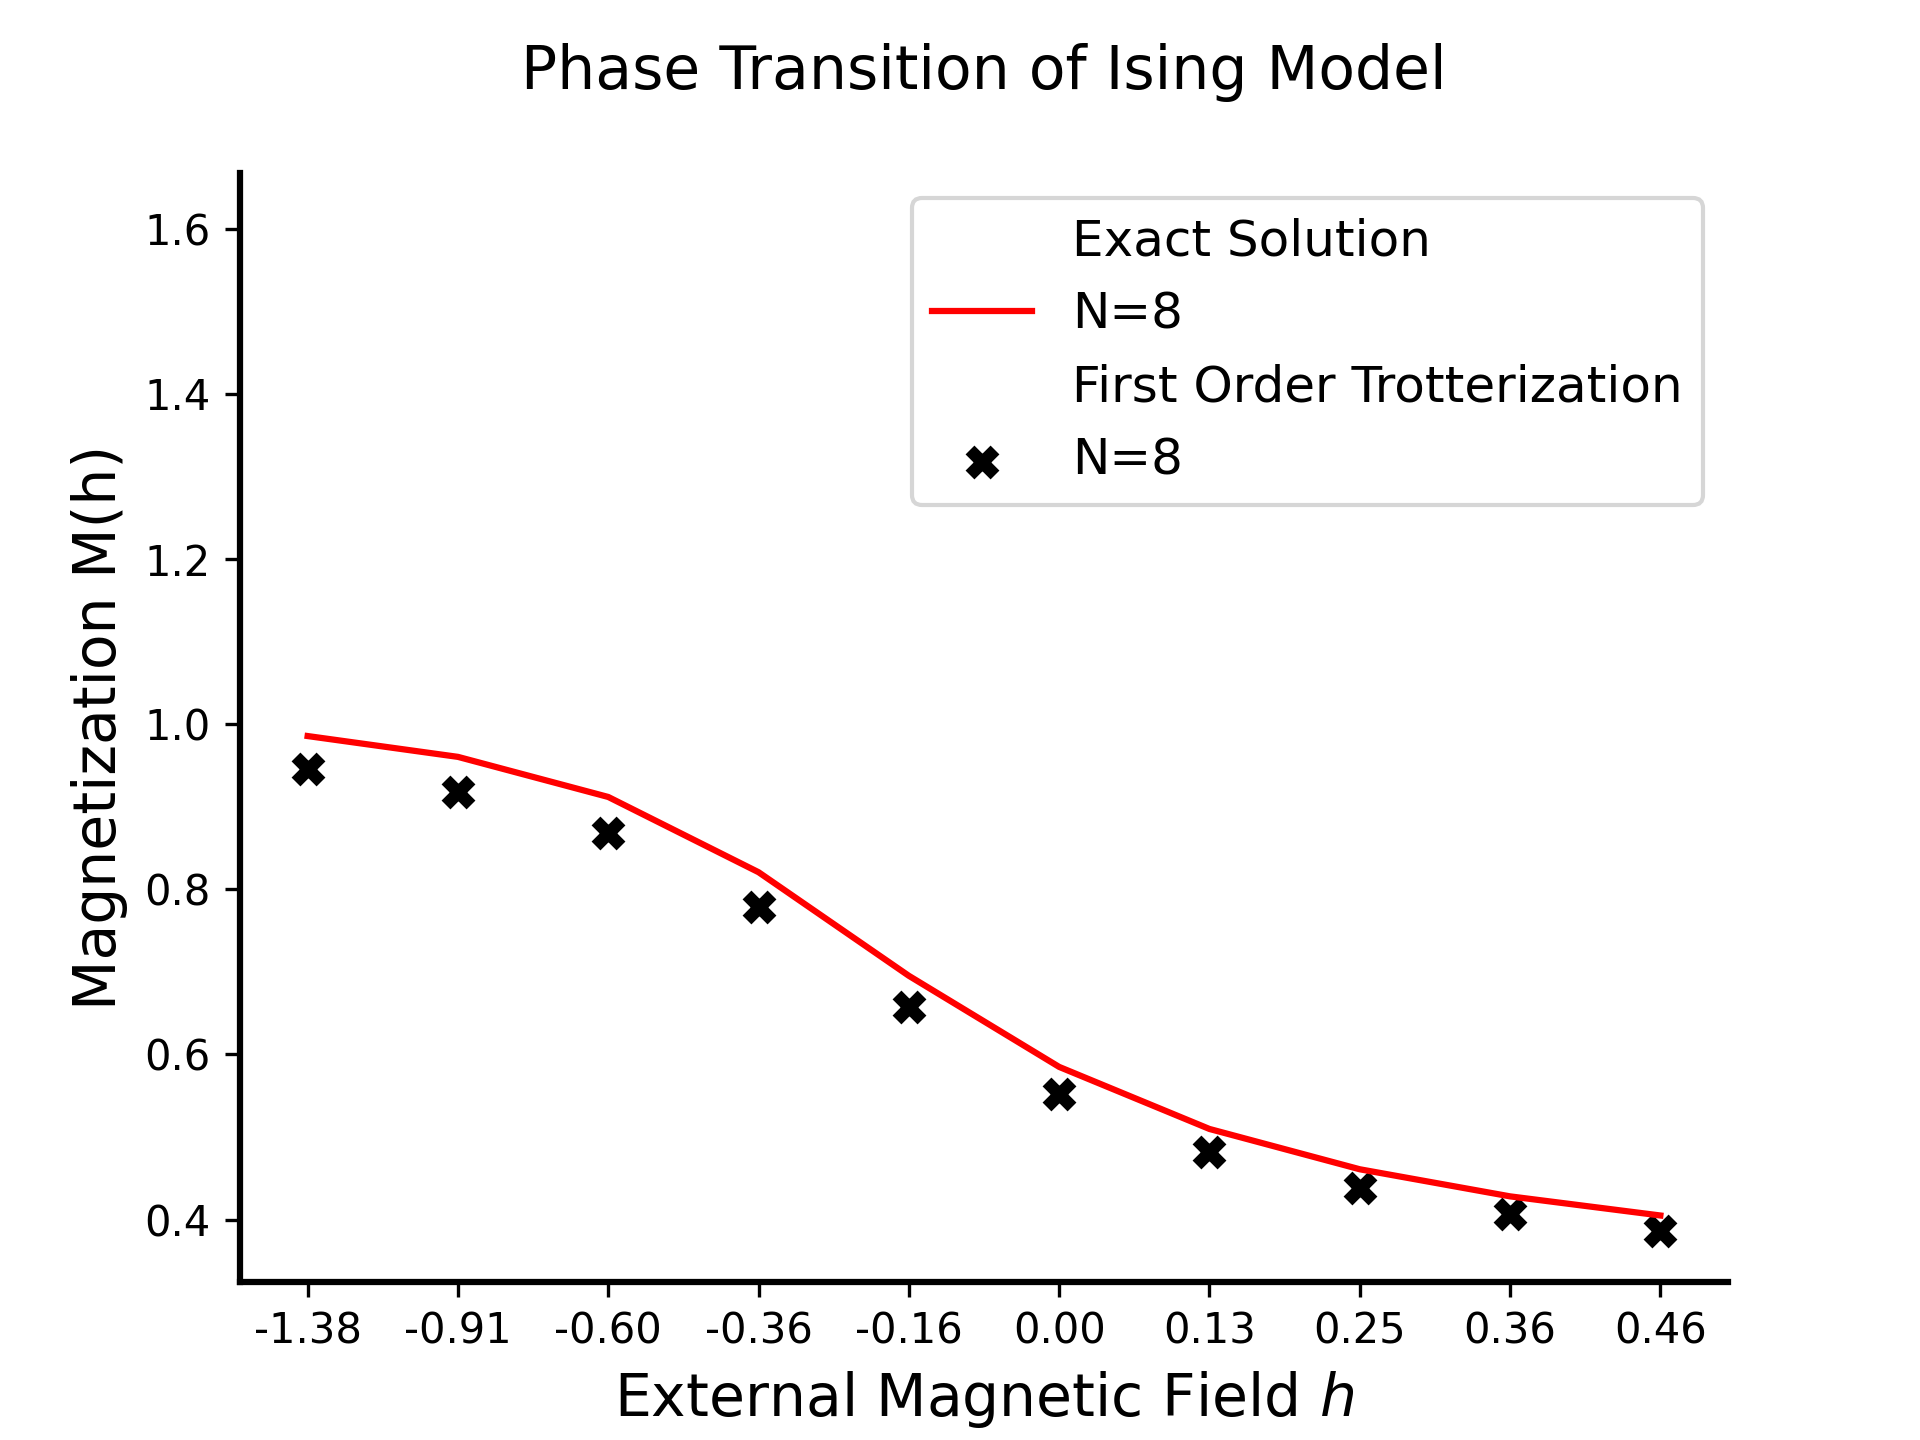
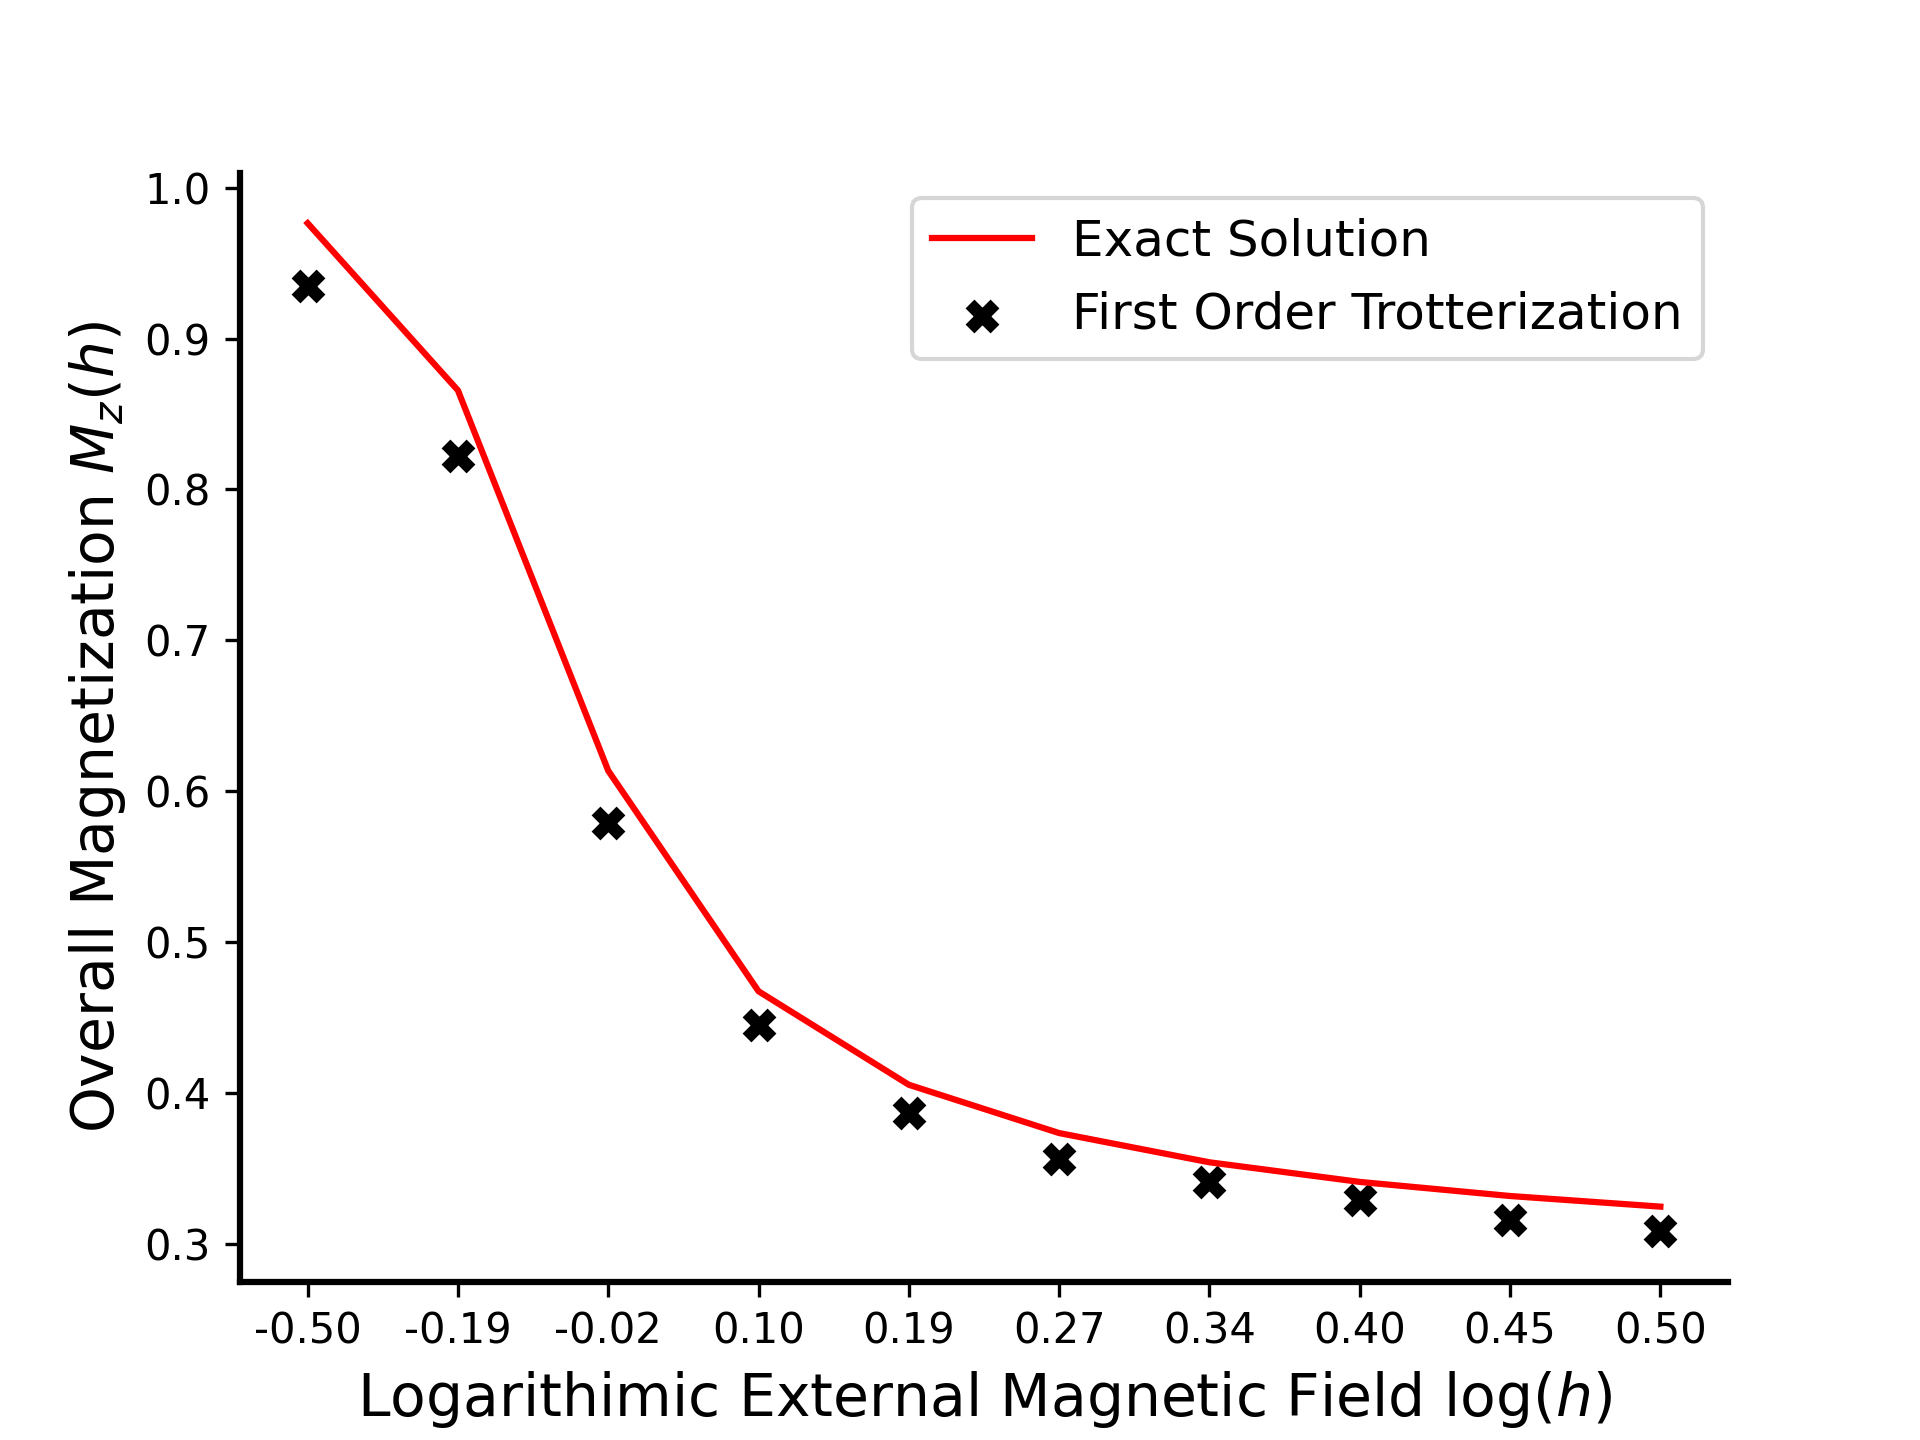
all sims ended

diff --git a/ising/plotter/groundstate/magnetization.py b/ising/plotter/groundstate/magnetization.py
@@ -32,12 +32,13 @@ def _get_point(res: Result) -> float:
 
 
 def log_label_maker(values: list[float]) -> list[str]:
-    return ["{:.2f}".format(math.trunc(np.log(float(x)) * 100) / 100) for x in values]
+    return ["{:.2f}".format(math.trunc(np.log10(float(x)) * 100) / 100) for x in values]
 
 
 def plot_method(paras, results: Result, **kwargs):
     style = kwargs.get("style")
     color = kwargs.get("color")
+    method = kwargs.get("method")
 
     for num_qubit, h_wise_results in results.items():
         # h_wise_results: h -> magn
@@ -47,14 +48,18 @@ def plot_method(paras, results: Result, **kwargs):
             ax = sns.scatterplot(
                 x=x_values,
                 y=y_values,
-                label=f"N={num_qubit}",
+                label=method,
+                # label=f"N={num_qubit}",
                 marker=style,
                 linewidth=3,
                 color=color,
             )
         else:
             ax = sns.lineplot(
-                x=x_values, y=y_values, label=f"N={num_qubit}", color=color
+                x=x_values, y=y_values, 
+                label=method,
+                # label=f"N={num_qubit}", 
+                color=color
             )
 
 
@@ -74,14 +79,14 @@ def plot_combined(
     plt.rcParams.update({"font.family": "sans-serif"})
 
     for ind, (method, results) in enumerate(method_wise_results.items()):
-        h_value = _get_point(results)
-        sns.scatterplot(
-            x=[max_h * scale[0]],
-            y=[h_value * scale[1]],
-            alpha=0.0,
-            label=METHOD_NAMES[method],
-        )
-        plot_method(paras, results, style=styles[ind], color=colors[ind])
+        # h_value = _get_point(results)
+        # sns.scatterplot(
+        #     x=[max_h * scale[0]],
+        #     y=[h_value * scale[1]],
+        #     alpha=0.0,
+        #     label=METHOD_NAMES[method],
+        # )
+        plot_method(paras, results, style=styles[ind], color=colors[ind], method=METHOD_NAMES[method])
 
     # SETTING: AXIS VISIBILITY
     ax.spines["top"].set_visible(False)
@@ -96,11 +101,11 @@ def plot_combined(
     # plt.locator_params(axis="y", nbins=6)
 
     # SETTING: AXIS LABELS
-    ax.set_xlabel("External Magnetic Field $h$", fontsize=14)
-    ax.set_ylabel("Magnetization M(h)", fontsize=14)
+    ax.set_xlabel("Logarithimic External Magnetic Field $\log(h)$", fontsize=14)
+    ax.set_ylabel("Overall Magnetization $M_z(h)$", fontsize=14)
 
     # SETTING: TITLE PAD
-    ax.set_title("Phase Transition of Ising Model", pad=20)
+    # ax.set_title("Phase Transition of Ising Model", pad=20)
     ax.get_legend()
 
     # SETTING: LOG SCALE
